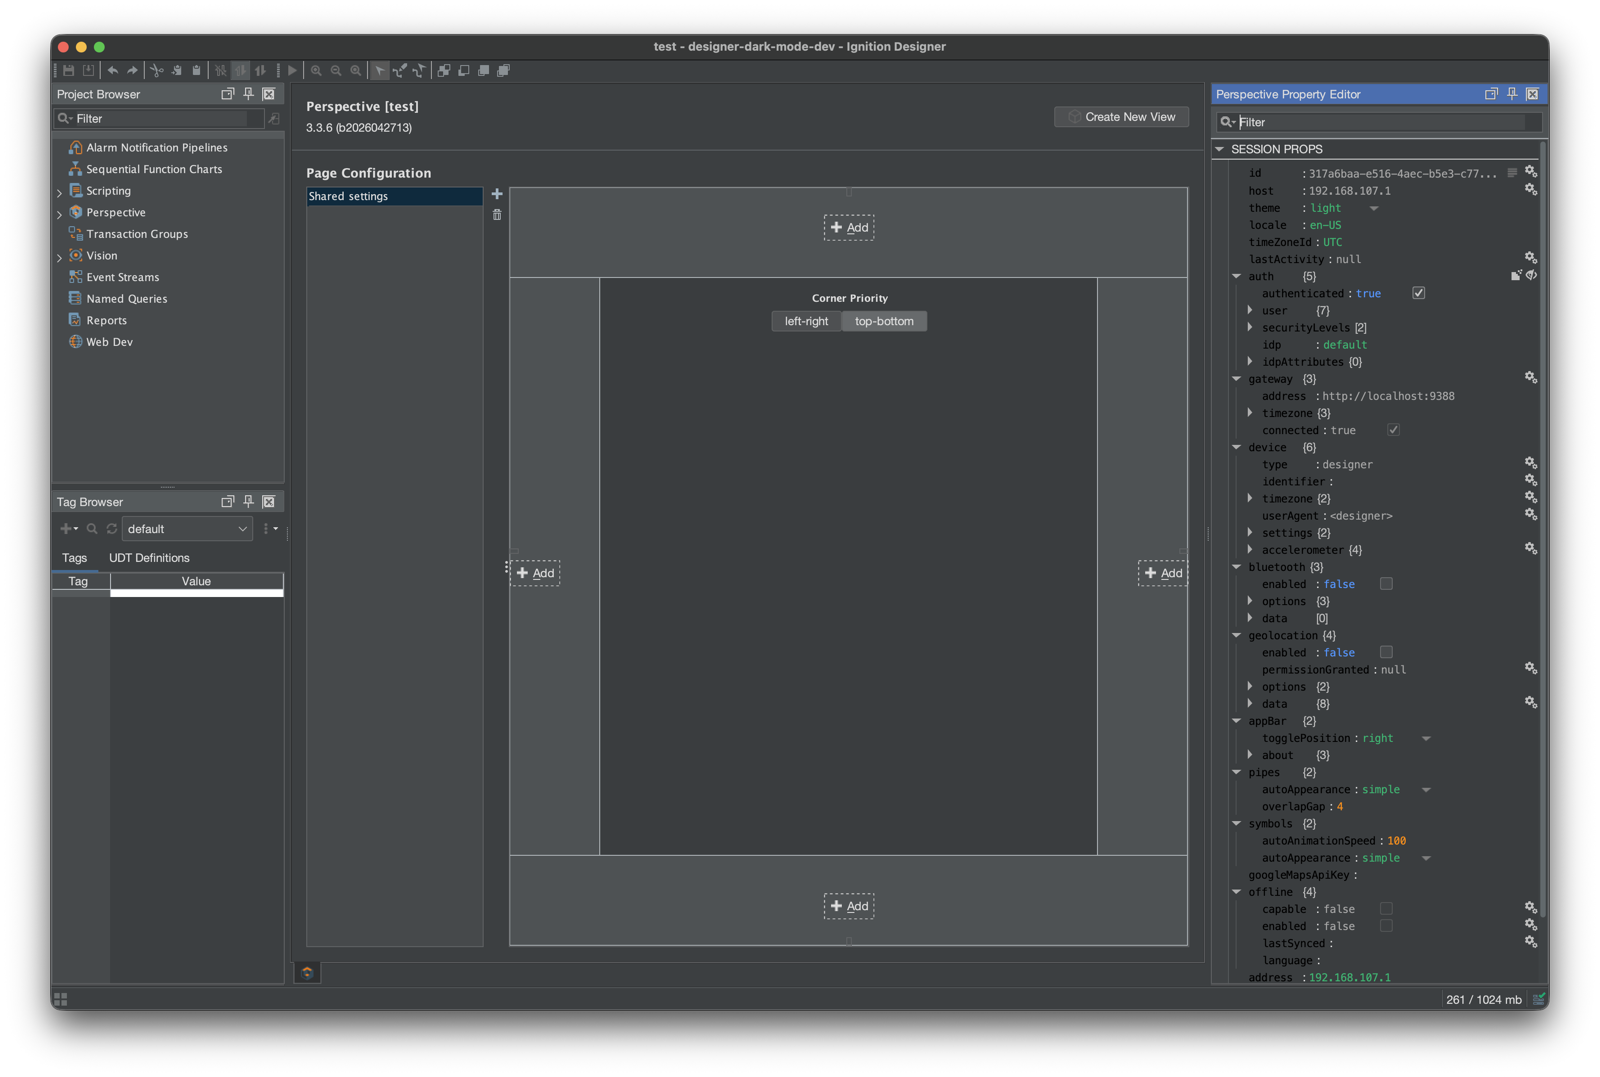
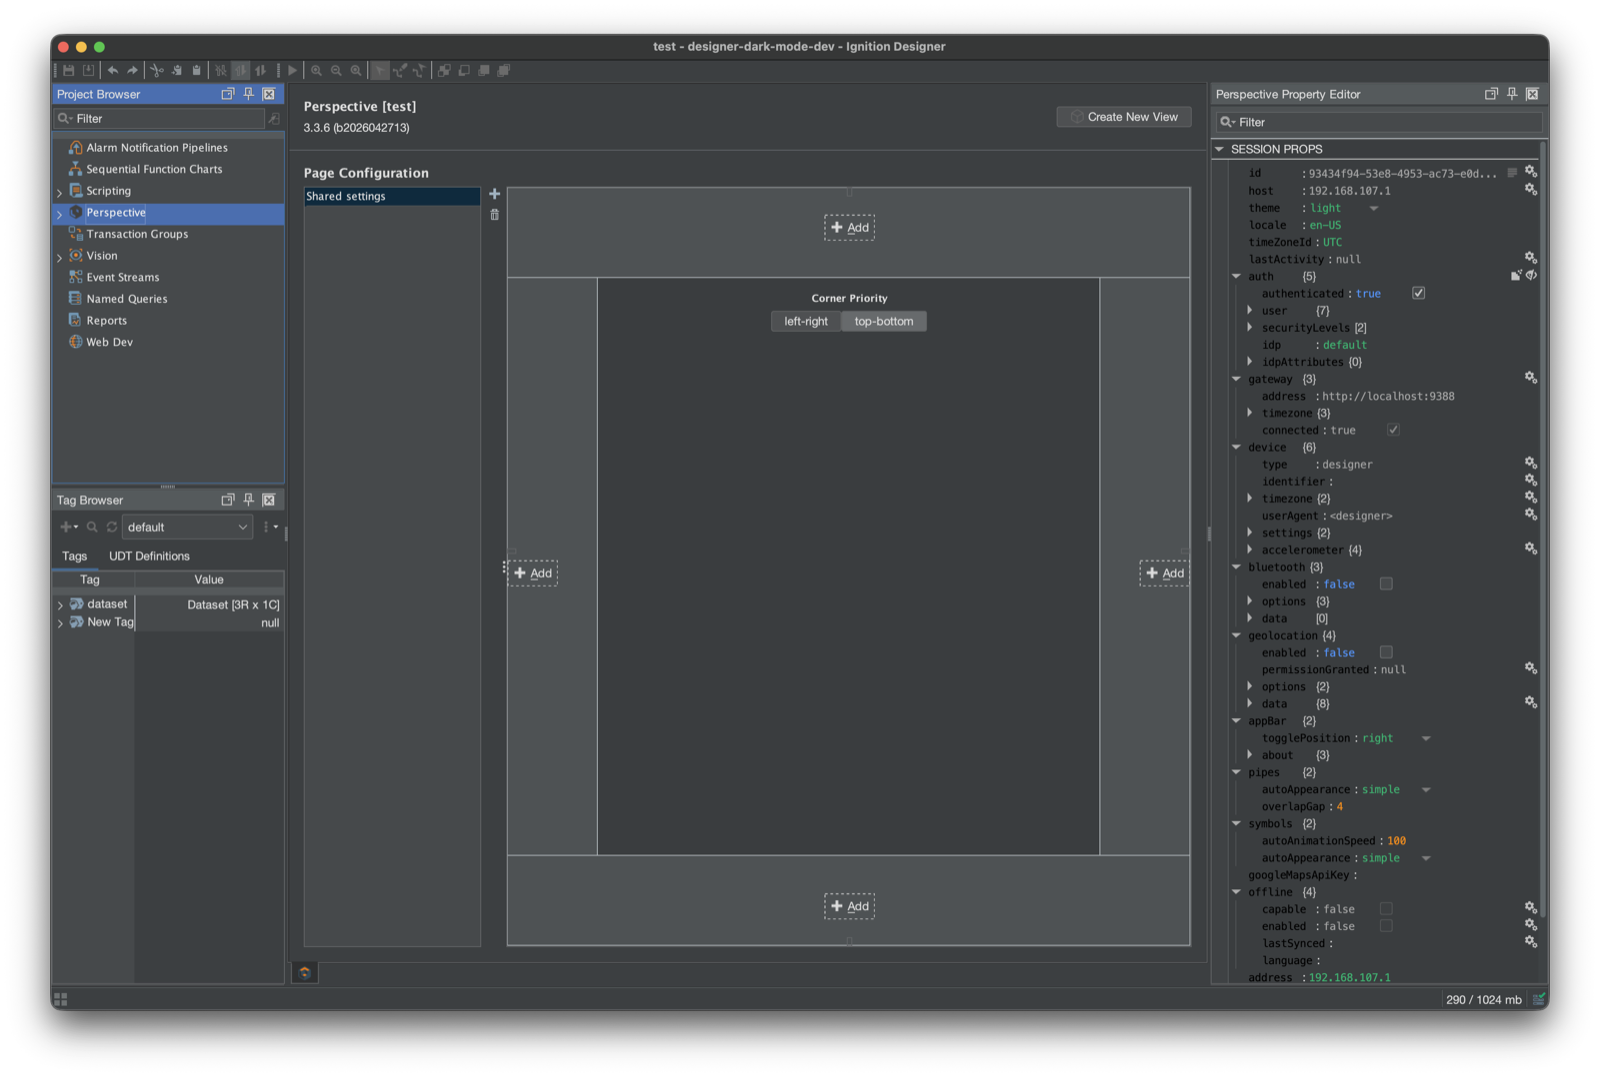
docs: install from the release, and refresh the screenshots
**Install.** The instructions sent people to Build first — "grab a built .modl
(see Build)" — which asks a person evaluating a dark mode to install a JDK and
run Gradle. Now that releases carry a signed .modl, the first step is
downloading it, with the steps numbered and the certificate prompt explained
before they hit it rather than after. Build is still documented, marked as the
path for developing the module rather than using it.

Also states what installing actually costs, because a gateway is shared and
nobody wants to find out afterwards: no gateway service, no tags, no scripting
functions, no effect on Perspective sessions or Vision clients, and how to
uninstall.

**Screenshots.** Replaced in place, so every existing reference still resolves.
The old pair showed #21 — a pale band under the Tag Browser's `Tag | Value`
header — which 0.2.0 fixed; the new pair shows it gone, and the caveat recording
it is deleted.

Chosen from two candidate pairs. The other was a better frame, showing the
Perspective component palette as well, but its status bar reads "Trial Expired"
in red — the Reporting module's trial, started by QA work on the dev gateway and
nothing to do with this module. In a README that says this module is
trial-limited, which is false. Both traps are now written down next to the
capture instructions.

diff --git a/README.md b/README.md
@@ -5,6 +5,10 @@ most-requested Designer idea on Inductive Automation's ideas portal.
 
 ![The Ignition Designer with dark mode enabled](docs/images/designer-dark.png)
 
+**[Download the latest release](https://github.com/Mustry-Solutions/ignition-designer-dark-mode-module/releases/latest)**,
+install the `.modl` on your gateway, relaunch the Designer, and turn it on with
+**Tools → Dark Mode**. Full steps in [Install](#install).
+
 > Status: young but usable. Designer scope only; targets Ignition **8.3+**.
 > See [Known limitations](#known-limitations) before installing.
 
@@ -58,14 +62,29 @@ not.
 
 ## Install
 
-Grab a built `.modl` (see [Build](#build)) and install it on your gateway:
-**Config → Modules → Install or Upgrade a Module** in the Gateway web UI, then
-relaunch the Designer. The module is unsigned by default, so an 8.3 gateway will
-ask you to accept it during install.
+You do not need to build anything.
 
-Then, in the Designer: **Tools → Dark Mode**.
+1. Download `designer-dark-mode.modl` from the
+   **[latest release](https://github.com/Mustry-Solutions/ignition-designer-dark-mode-module/releases/latest)**.
+2. In the Gateway web UI, go to **Config → Modules**, choose **Install or
+   Upgrade a Module**, and pick that file.
+3. The gateway will ask you to accept the module's certificate. It is signed by
+   Mustry Solutions with our own certificate rather than one Ignition ships, so
+   you are asked to trust it once, on first install.
+4. **Relaunch the Designer**, then turn it on with **Tools → Dark Mode**.
+
+Requires Ignition **8.3.0** or newer. Upgrading is the same flow — install the
+newer `.modl` over the old one and relaunch the Designer.
+
+Everything this module does happens inside the Designer. It adds no gateway
+service, no tags, and no scripting functions, and it changes nothing for
+Perspective sessions, Vision clients, or anyone else using your gateway. To
+remove it: **Config → Modules → Uninstall**, and relaunch the Designer.
 
 ## Build
+
+You only need this to develop the module — to *use* it, see
+[Install](#install) above.
 
 Requirements: **JDK 17** (the Gradle toolchain will use it) and internet access
 to Inductive Automation's Maven repository. Everything else — Gradle 8.14, the
@@ -75,9 +94,10 @@ module plugin, FlatLaf — is resolved automatically.
 ./gradlew build
 ```
 
-The module lands at `build/designer-dark-mode.unsigned.modl`. Builds are unsigned
-unless you pass signing credentials (see
-[docs/DEVELOPMENT.md](docs/DEVELOPMENT.md#signing)).
+The module lands at `build/designer-dark-mode.unsigned.modl`. Builds from source
+are unsigned unless you pass signing credentials (see
+[docs/DEVELOPMENT.md](docs/DEVELOPMENT.md#signing)), and an 8.3 gateway will
+refuse to load an unsigned module unless you accept it during install.
 
 ## Try it in a throwaway gateway
 

diff --git a/docs/images/README.md b/docs/images/README.md
@@ -13,6 +13,16 @@ Filenames are stable on purpose: replacing them in place keeps every existing
 reference — README, issues, release notes — pointing at the current image. Do
 not add dates or version numbers.
 
+The current pair was captured on 2026-08-31 against 0.2.0. Two things to check
+in a replacement, both of which have gone wrong before:
+
+- **No trial badge in the status bar.** A later capture of the same frame was
+  rejected for showing a red "Trial Expired" — the Reporting module's trial,
+  started by QA work on the dev gateway, and nothing to do with this module. In
+  a README it reads as though this module is trial-limited.
+- **Tags in the Tag Browser.** An empty one wastes the panel that shows off the
+  tree theming.
+
 ## Reproducing them
 
 1. Bring up the dev gateway and launch a Designer against it:
@@ -47,12 +57,6 @@ not add dates or version numbers.
    Retina captures come out around 3500px and 1 MB each; 1600px is plenty for
    GitHub (which renders README images at roughly half that) and keeps the
    clone small.
-
-## Known caveat in the current pair
-
-The dark capture still shows [#21](https://github.com/Mustry-Solutions/ignition-designer-dark-mode-module/issues/21):
-a faint pale band under the Tag Browser's `Tag | Value` header. It is cosmetic,
-confined to that one panel, and documented in the README's Known limitations.
 
 ## Why the light shot comes from a fresh launch
 
